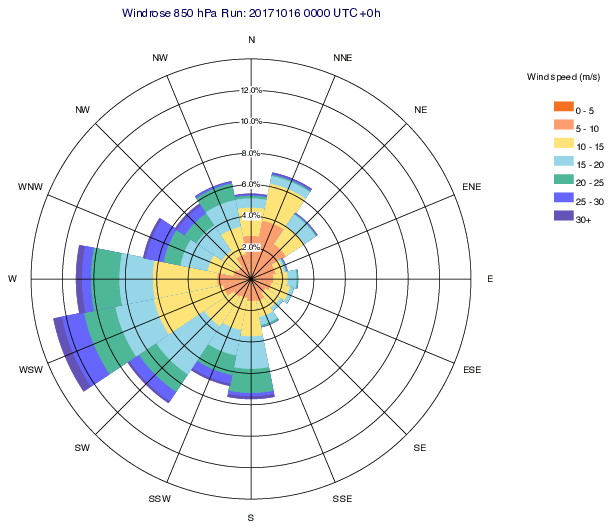
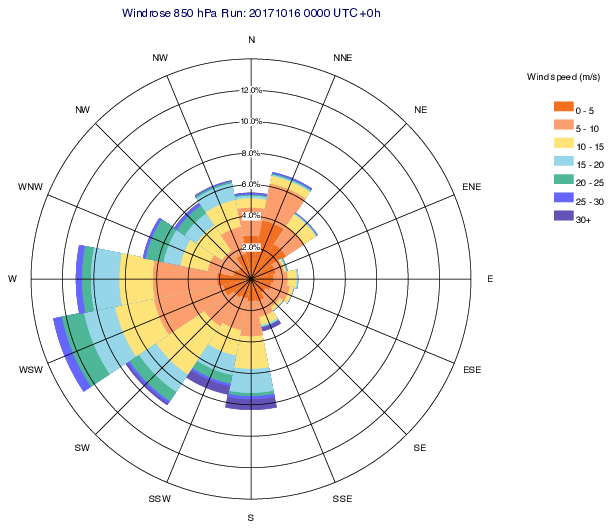
Add windrose gallery example

Changed region(s): [[0.0931, 0.3025, 0.5278, 0.7864]]

diff --git a/docs/gallery/windrose.py b/docs/gallery/windrose.py
@@ -121,8 +121,8 @@ def build_sectors(
 
         start_angle += sector_gap / 2.0
         end_angle -= sector_gap / 2.0
-        for j in range(len(data.speed_bins) - 1, 0, -1):
-            radius = data.res[0 : j - 1, i].sum()
+        for j in range(len(data.speed_bins) - 2, -1, -1):
+            radius = data.res[0 : j + 1, i].sum()
             pie_x = [x_cent]
             pie_y = [y_cent]
             angle = start_angle
@@ -140,8 +140,8 @@ def build_sectors(
             graph = mv.mgraph(
                 legend=legend,
                 graph_type="area",
-                graph_line_colour=outline_colours[j - 1],
-                graph_shade_colour=fill_colours[j - 1],
+                graph_line_colour=outline_colours[j],
+                graph_shade_colour=fill_colours[j],
             )
             gr_lst.extend([vis, graph])
     return gr_lst
